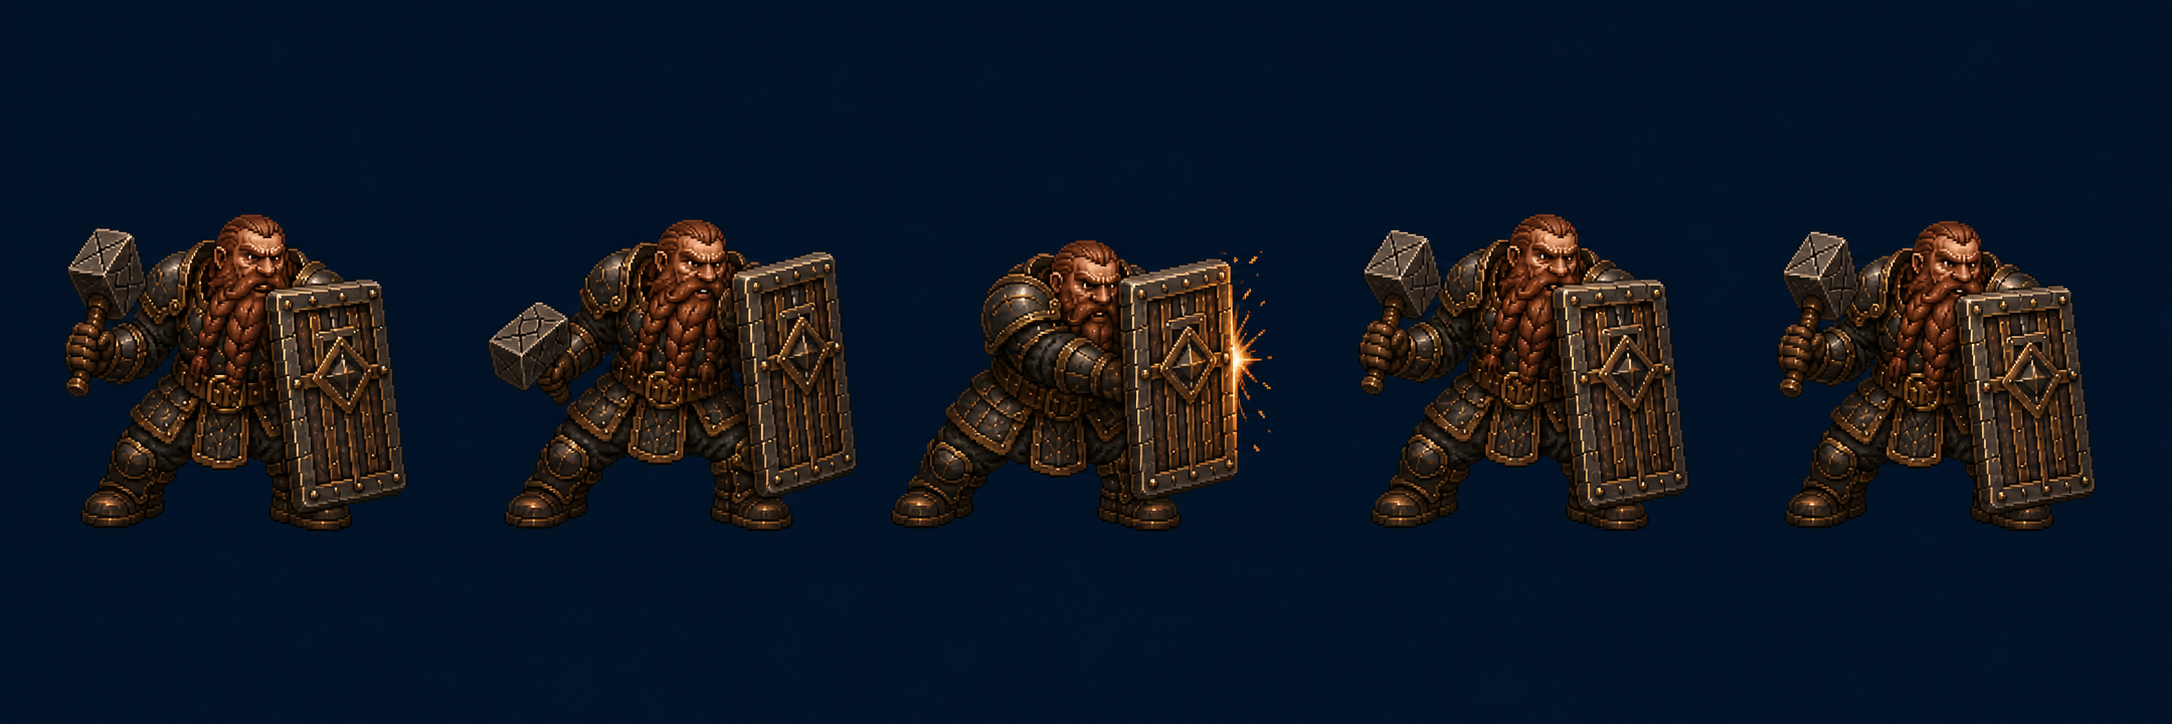
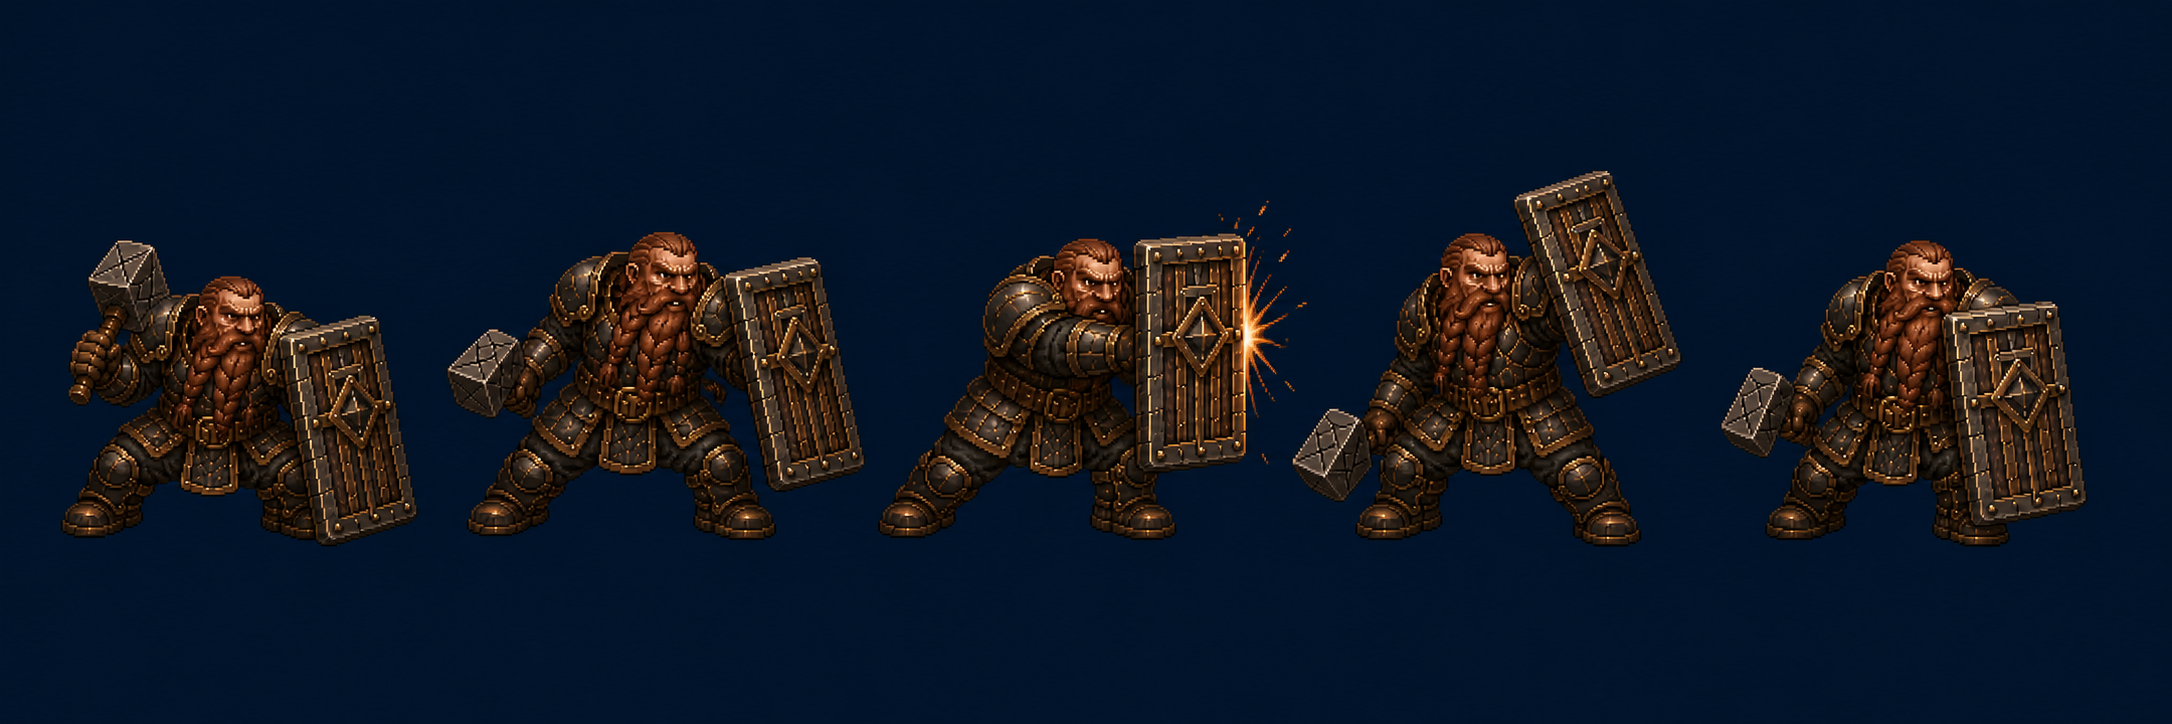
art(web): strengthen Shield Slam authored silhouettes

Changed region(s): [[0.0308, 0.2431, 0.9871, 0.7597]]

diff --git a/assets/game-art/combat-animation/build_assets.py b/assets/game-art/combat-animation/build_assets.py
@@ -33,7 +33,7 @@ SOURCE_DIGESTS = {
[6 lines of base64/hex data omitted]
 }
 

diff --git a/assets/game-art/combat-animation/generation-log.md b/assets/game-art/combat-animation/generation-log.md
@@ -102,17 +102,23 @@ The generated source follows the project-owned reference identity rather than th
 - Model: `gpt-image-2-medium`
 - Aspect ratio: `landscape`
 - Requested size setting: `1536x1024`
-- Saved dimensions: `2172x724`
+- Saved dimensions: `1536x1024`
 - Quality: `medium`
 - Modality: `image`
-- Input image: `assets/game-art/combat-animation/sources/iron-warden-basic-attack-cycle-master.png`
[1 lines of base64/hex data omitted]
+- Input images: `assets/game-art/combat-animation/sources/iron-warden-basic-attack-cycle-master.png`, `assets/game-art/combat-animation/sources/iron-warden-shield-slam-cycle-master.png` (preceding rejected candidate used only as identity/continuity references)
[1 lines of base64/hex data omitted]
 - License: project MIT license (`LICENSE`)
 
 ### Exact prompt
 
-Create an ORIGINAL production sprite atlas for the Dwarven Depths project, preserving exactly the same Iron Warden identity, anatomy, proportions, bronze and dark-steel armor, red braided beard, square-headed one-handed hammer, tall rectangular shield, warm painterly pixel-art rendering, elevated three-quarter camera, and uniform deep navy keyed background shown in the project-owned reference. No text, labels, borders, UI, rings, bars, environment, floor, or unrelated poses. Arrange EXACTLY FIVE evenly separated complete Iron Warden figures in one horizontal row. All figures must have boots planted on exactly the same invisible ground line and remain exactly the same body scale. Left to right, depict one coherent SHIELD SLAM cycle: (1) anticipation—knees compress, weight braces behind both planted boots, tall shield drawn close and slightly back, hammer hand guarding; (2) commitment—shield shoulder and arm begin driving forward while torso remains anatomically stable; (3) contact—shield face reaches maximum forward extension with a tiny restrained warm amber edge spark, body behind the shield, no magic arc; (4) recoil—shield rebounds toward the torso and knees absorb force; (5) recovery—returns toward guarded idle. Motion must come from shield arm, shoulder, knees, and believable weight shift, never whole-body stretch, squash, rotation, sliding, or distortion. Preserve shield dimensions/design, hammer dimensions/design, beard, armor, lighting, and camera perfectly across all five frames. No cropped equipment, duplicated limbs, detached parts, cyan effects, or smooth vector style. Crisp silhouettes that remain readable at 56-pixel gameplay height. Uniform dark navy (#061525-like) background suitable for deterministic color-key alpha extraction.
+Create a replacement ORIGINAL production sprite atlas for the Dwarven Depths project. Preserve the exact same Iron Warden character identity from the references: stocky dwarf anatomy, red braided beard, bronze and dark-steel armor, square-headed one-handed hammer, tall rectangular shield with diamond emblem, warm painterly pixel-art rendering, elevated three-quarter camera, crisp silhouette. Output exactly FIVE evenly separated, complete figures in one horizontal row on a perfectly uniform deep navy (#061525) removable background. No text, labels, borders, UI, rings, bars, floor, scenery, cyan, magic arc, detached effect, extra figures, cropped equipment, duplicated limbs, or smooth vector art.
+
+This is a forceful but anatomy-stable SHIELD SLAM cycle designed to remain unmistakable at only 56 pixels tall. Keep body, head, beard, armor, hammer, shield dimensions, lighting, camera, and logical ground line consistent. Both boots remain planted and clearly visible in every frame; motion comes from knees, hips, shoulder, shield arm, and believable weight transfer—never global rotation, stretch, squash, sliding, or distortion.
+
+Left to right: (1) ANTICIPATION: unmistakably low, wide braced silhouette; knees deeply compressed; hips and shoulders pulled back; shield drawn tightly beside the torso and visibly rearward; hammer hand guarding high. This must read as stored weight, not idle. (2) COMMITMENT: strong forward diagonal through shoulder and shield arm; rear knee driving; shield halfway thrust forward; torso stable; clear separation from frames 1 and 3. (3) CONTACT: shield face at maximum forward extension well ahead of head and torso; body visibly driving behind it; tiny restrained warm amber edge sparks only; strongest silhouette in the row. (4) RECOIL: shield has visibly bounced back and upward toward the shoulder; torso and knees absorb force rearward; hammer arm counterbalances low; clearly different from idle and anticipation. (5) RECOVERY: guarded settling pose midway back to idle, shield returned in front but still slightly angled, knees partly bent, hammer lowering; clearly distinct from frame 1.
+
+Prioritize broad readable silhouette differences, consistent planted boots, weapon/shield motion, and animation continuity at gameplay scale. Exactly five figures.
 
 ### Bounded QA
 
-Exactly five complete figures preserve the Warden's anatomy, shield, hammer, scale, and planted ground line. The action is authored through shield extension and braced weight transfer, with a restrained warm contact spark and no detached overlay. The deterministic exporter binds the source digest and all five phase exports.
+Exactly five complete figures preserve the Warden's identity, anatomy, shield, hammer, scale, and planted ground line. The low brace, forward drive, maximum shield contact, high shield rebound, and guarded settle are distinct at gameplay scale. The contact accent is warm and restrained with no detached overlay. The deterministic exporter binds the source digest and all five phase exports.
